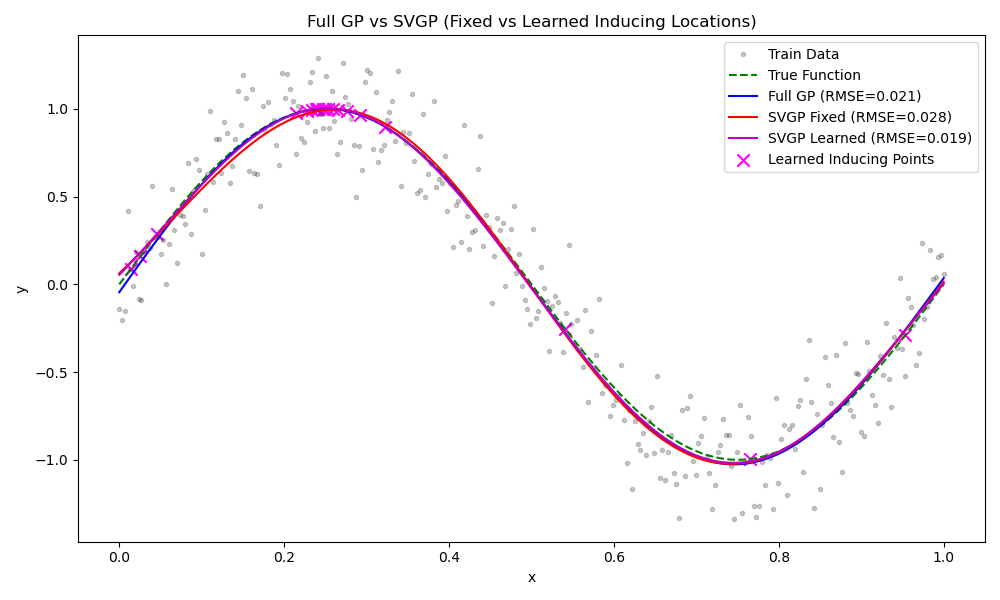
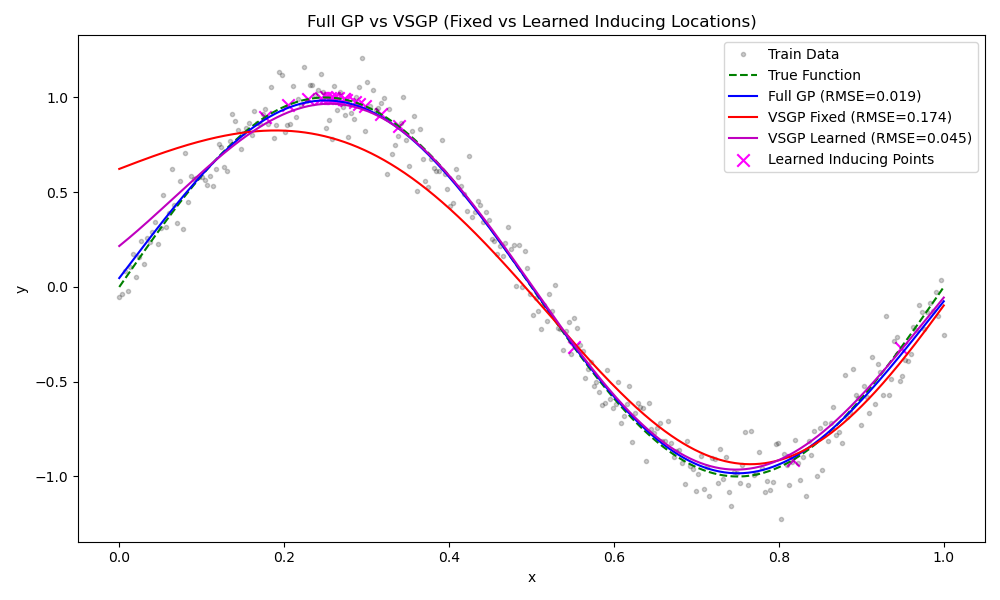
update simplest online VSGP

diff --git a/experiments/online_vsgp.py b/experiments/online_vsgp.py
@@ -6,21 +6,47 @@ import os
 from matplotlib import pyplot as plt
 from sklearn.metrics import mean_squared_error
 
-device = torch.device("cuda" if torch.cuda.is_available() else "cpu")
+# ==== Training and Model Parameters ====
+INITIAL_POINTS = 20
+STREAM_POINTS = 180
+TEST_POINTS = 500
+NOISE_LEVEL = 0.1
+FUNCTION_FREQUENCY = 2 * math.pi
+
+NUM_INDUCING = 20
+INITIAL_LENGTHSCALE = 1.0
+INITIAL_OUTPUTSCALE = 1.0
+INITIAL_NOISE = 0.1
+
+BATCH_SIZE = 10
+INITIAL_TRAIN_ITER = 100
+STREAM_TRAIN_ITER = 20
+LEARNING_RATE = 0.01
+
+# ==== Plotting Parameters ====
+FIGURE_SIZE = (10, 6)
+INDUCING_MARKER_SIZE = 80
+DATA_POINT_SIZE = 10
+CONFIDENCE_ALPHA = 0.3
+
+# ==== Device ====
+USE_GPU = True
+device = torch.device("cuda" if (USE_GPU and torch.cuda.is_available()) else "cpu")
+
+# ==== Results Directory ====
 results_dir = os.path.join(os.path.dirname(__file__), '..', 'results')
 os.makedirs(results_dir, exist_ok=True)
 
-# 1. Initial data and streaming data
-init_x = torch.linspace(0, 0.3, 20, device=device)
-init_y = torch.sin(2 * math.pi * init_x) + 0.2 * torch.randn(init_x.size(), device=device)
-stream_x = torch.linspace(0.3, 1, 180, device=device)
-stream_y = torch.sin(2 * math.pi * stream_x) + 0.2 * torch.randn(stream_x.size(), device=device)
+# ==== Data Generation ====
+init_x = torch.linspace(0, 0.3, INITIAL_POINTS, device=device)
+init_y = torch.sin(FUNCTION_FREQUENCY * init_x) + NOISE_LEVEL * torch.randn(init_x.size(), device=device)
+stream_x = torch.linspace(0.3, 1, STREAM_POINTS, device=device)
+stream_y = torch.sin(FUNCTION_FREQUENCY * stream_x) + NOISE_LEVEL * torch.randn(stream_x.size(), device=device)
 
-# Fixed test set for evaluation
-test_x = torch.linspace(0, 1, 500, device=device)
-test_y = torch.sin(2 * math.pi * test_x)
+test_x = torch.linspace(0, 1, TEST_POINTS, device=device)
+test_y = torch.sin(FUNCTION_FREQUENCY * test_x)
 
-# 2. SVGP Model definition
+# ==== SVGP Model Definition ====
 class SVGPRegressionModel(gpytorch.models.ApproximateGP):
     def __init__(self, inducing_points):
         variational_distribution = gpytorch.variational.CholeskyVariationalDistribution(inducing_points.size(0)).to(device)
@@ -38,20 +64,19 @@ class SVGPRegressionModel(gpytorch.models.ApproximateGP):
         covar_x = self.covar_module(x)
         return gpytorch.distributions.MultivariateNormal(mean_x, covar_x)
 
-# 3. Initialize model and likelihood
-num_inducing = 20
+# ==== Initialize model and likelihood ====
 inducing_points = init_x.unsqueeze(-1).clone()
 model = SVGPRegressionModel(inducing_points=inducing_points).to(device)
 likelihood = gpytorch.likelihoods.GaussianLikelihood().to(device)
 
-# 4. Training function
-def train_svgp(model, likelihood, x, y, num_iter=50):
+# ==== Training function ====
+def train_svgp(model, likelihood, x, y, num_iter):
     model.train()
     likelihood.train()
     optimizer = torch.optim.Adam([
         {'params': model.parameters()},
         {'params': likelihood.parameters()},
-    ], lr=0.01)
+    ], lr=LEARNING_RATE)
     mll = gpytorch.mlls.VariationalELBO(likelihood, model, num_data=y.size(0)).to(device)
     for _ in range(num_iter):
         optimizer.zero_grad()
@@ -60,8 +85,7 @@ def train_svgp(model, likelihood, x, y, num_iter=50):
         loss.backward()
         optimizer.step()
 
-# 5. Online update loop
-batch_size = 10
+# ==== Online update loop ====
 all_x = [init_x]
 all_y = [init_y]
 inducing_traj = [model.variational_strategy.inducing_points.detach().cpu().numpy().flatten().copy()]
@@ -71,7 +95,7 @@ outputscale_list = []
 noise_list = []
 
 # Initial training
-train_svgp(model, likelihood, init_x, init_y, num_iter=100)
+train_svgp(model, likelihood, init_x, init_y, num_iter=INITIAL_TRAIN_ITER)
 inducing_traj.append(model.variational_strategy.inducing_points.detach().cpu().numpy().flatten().copy())
 
 # Evaluate after initial training
@@ -82,24 +106,19 @@ with torch.no_grad(), gpytorch.settings.fast_pred_var():
     mean = pred.mean.cpu().numpy()
     rmse = np.sqrt(mean_squared_error(test_y.cpu().numpy(), mean))
     rmse_list.append(rmse)
-    # Record kernel hyperparameters
     lengthscale_list.append(model.covar_module.base_kernel.lengthscale.item())
     outputscale_list.append(model.covar_module.outputscale.item())
     noise_list.append(likelihood.noise.item())
 
-for i in range(0, len(stream_x), batch_size):
-    batch_x = stream_x[i:i+batch_size]
-    batch_y = stream_y[i:i+batch_size]
-    # Add new data
+for i in range(0, len(stream_x), BATCH_SIZE):
+    batch_x = stream_x[i:i+BATCH_SIZE]
+    batch_y = stream_y[i:i+BATCH_SIZE]
     all_x.append(batch_x)
     all_y.append(batch_y)
-    # Retrain on all data so far (for simplicity)
     x_so_far = torch.cat(all_x)
     y_so_far = torch.cat(all_y)
-    train_svgp(model, likelihood, x_so_far, y_so_far, num_iter=20)
-    # Record inducing points
+    train_svgp(model, likelihood, x_so_far, y_so_far, num_iter=STREAM_TRAIN_ITER)
     inducing_traj.append(model.variational_strategy.inducing_points.detach().cpu().numpy().flatten().copy())
-    # Evaluate and record RMSE and kernel hyperparameters
     model.eval()
     likelihood.eval()
     with torch.no_grad(), gpytorch.settings.fast_pred_var():
@@ -111,10 +130,10 @@ for i in range(0, len(stream_x), batch_size):
         outputscale_list.append(model.covar_module.outputscale.item())
         noise_list.append(likelihood.noise.item())
 
-# 6. Plot inducing point trajectories with RMSE tags
-inducing_traj = np.array(inducing_traj)  # shape: (steps, num_inducing)
+# ==== Plot inducing point trajectories with RMSE tags ====
+inducing_traj = np.array(inducing_traj)
 plt.figure(figsize=(12, 6))
-for i in range(num_inducing):
+for i in range(NUM_INDUCING):
     plt.plot(inducing_traj[:, i], color='magenta', alpha=0.7)
 for step, rmse in enumerate(rmse_list):
     plt.text(step, inducing_traj[step, 0], f"{rmse:.3f}", fontsize=8, color='blue', ha='center', va='bottom', rotation=45)
@@ -125,7 +144,7 @@ plt.tight_layout()
 plt.savefig(os.path.join(results_dir, 'online_svgp_inducing_trajectories.png'))
 plt.close()
 
-# 7. Plot kernel hyperparameters over time
+# ==== Plot kernel hyperparameters over time ====
 plt.figure(figsize=(10, 6))
 plt.plot(lengthscale_list, label='Lengthscale')
 plt.plot(outputscale_list, label='Outputscale')
@@ -138,7 +157,7 @@ plt.tight_layout()
 plt.savefig(os.path.join(results_dir, 'online_svgp_hyperparams.png'))
 plt.close()
 
-# 8. Plot RMSE over time
+# ==== Plot RMSE over time ====
 plt.figure(figsize=(8, 4))
 plt.plot(rmse_list, marker='o')
 plt.xlabel('Update Step')
@@ -148,7 +167,7 @@ plt.tight_layout()
 plt.savefig(os.path.join(results_dir, 'online_svgp_rmse_curve.png'))
 plt.close()
 
-# 9. Plot final model fit and inducing points
+# ==== Plot final model fit and inducing points ====
 model.eval()
 likelihood.eval()
 with torch.no_grad(), gpytorch.settings.fast_pred_var():
@@ -158,13 +177,13 @@ with torch.no_grad(), gpytorch.settings.fast_pred_var():
     lower = lower.cpu().numpy()
     upper = upper.cpu().numpy()
 
-plt.figure(figsize=(10, 6))
-plt.plot(test_x.cpu().numpy(), np.sin(2 * np.pi * test_x.cpu().numpy()), 'g--', label='True Function')
+plt.figure(figsize=FIGURE_SIZE)
+plt.plot(test_x.cpu().numpy(), np.sin(FUNCTION_FREQUENCY * test_x.cpu().numpy()), 'g--', label='True Function')
 plt.plot(test_x.cpu().numpy(), mean, 'b', label='SVGP Predictive Mean')
-plt.fill_between(test_x.cpu().numpy(), lower, upper, alpha=0.3, label='Confidence')
-plt.scatter(torch.cat(all_x).cpu().numpy(), torch.cat(all_y).cpu().numpy(), color='k', s=10, alpha=0.3, label='Data')
+plt.fill_between(test_x.cpu().numpy(), lower, upper, alpha=CONFIDENCE_ALPHA, label='Confidence')
+plt.scatter(torch.cat(all_x).cpu().numpy(), torch.cat(all_y).cpu().numpy(), color='k', s=DATA_POINT_SIZE, alpha=0.3, label='Data')
 final_inducing = model.variational_strategy.inducing_points.detach().cpu().numpy().flatten()
-plt.scatter(final_inducing, np.sin(2 * np.pi * final_inducing), marker='x', color='magenta', s=80, label='Final Inducing Points')
+plt.scatter(final_inducing, np.sin(FUNCTION_FREQUENCY * final_inducing), marker='x', color='magenta', s=INDUCING_MARKER_SIZE, label='Final Inducing Points')
 plt.legend()
 plt.title('Online SVGP: Final Fit and Inducing Points')
 plt.xlabel('x')

diff --git a/experiments/gp_vsgp_compare.py b/experiments/gp_vsgp_compare.py
@@ -1,0 +1,165 @@
+import torch
+import math
+import gpytorch
+import numpy as np
+import os
+from matplotlib import pyplot as plt
+from sklearn.metrics import mean_squared_error
+
+# ==== Training and Model Parameters (easy to modify) ====
+N = 300  # Number of training points
+TEST_POINTS = 1000  # Number of test points
+NOISE_LEVEL = 0.1
+FUNCTION_FREQUENCY = 2 * math.pi
+NUM_INDUCING = 20
+TRAIN_ITER = 100
+LEARNING_RATE = 0.02
+
+# ==== Plotting Parameters ====
+FIGURE_SIZE = (10, 6)
+INDUCING_MARKER_SIZE = 80
+DATA_POINT_SIZE = 10
+CONFIDENCE_ALPHA = 0.3
+
+# ==== Device ====
+device = torch.device("cuda" if torch.cuda.is_available() else "cpu")
+
+# ==== Results Directory ====
+results_dir = os.path.join(os.path.dirname(__file__), '..', f'results_{NUM_INDUCING}')
+os.makedirs(results_dir, exist_ok=True)
+
+# ==== Data Generation ====
+train_x = torch.linspace(0, 1, N, device=device)
+train_y = torch.sin(FUNCTION_FREQUENCY * train_x) + NOISE_LEVEL * torch.randn(train_x.size(), device=device)
+test_x = torch.linspace(0, 1, TEST_POINTS, device=device)
+test_y = torch.sin(FUNCTION_FREQUENCY * test_x)
+
+# --- Full GP Model ---
+class ExactGPModel(gpytorch.models.ExactGP):
+    def __init__(self, train_x, train_y, likelihood):
+        super().__init__(train_x, train_y, likelihood)
+        self.mean_module = gpytorch.means.ConstantMean()
+        self.covar_module = gpytorch.kernels.ScaleKernel(gpytorch.kernels.RBFKernel())
+
+    def forward(self, x):
+        mean_x = self.mean_module(x)
+        covar_x = self.covar_module(x)
+        return gpytorch.distributions.MultivariateNormal(mean_x, covar_x)
+
+# --- VSGP Model ---
+class VSGPRegressionModel(gpytorch.models.ApproximateGP):
+    def __init__(self, inducing_points, learn_inducing_locations=True):
+        variational_distribution = gpytorch.variational.CholeskyVariationalDistribution(inducing_points.size(0)).to(device)
+        variational_strategy = gpytorch.variational.VariationalStrategy(
+            self, inducing_points, variational_distribution, learn_inducing_locations=learn_inducing_locations
+        )
+        super().__init__(variational_strategy)
+        self.mean_module = gpytorch.means.ConstantMean().to(device)
+        self.covar_module = gpytorch.kernels.ScaleKernel(
+            gpytorch.kernels.RBFKernel().to(device)
+        ).to(device)
+
+    def forward(self, x):
+        mean_x = self.mean_module(x)
+        covar_x = self.covar_module(x)
+        return gpytorch.distributions.MultivariateNormal(mean_x, covar_x)
+
+# --- FITC Sparse GP Model ---
+class FITCRegressionModel(gpytorch.models.ApproximateGP):
+    def __init__(self, inducing_points, learn_inducing_locations=True):
+        variational_distribution = gpytorch.variational.DeltaVariationalDistribution(inducing_points.size(0)).to(device)
+        variational_strategy = gpytorch.variational.FITCVariationalStrategy(
+            self, inducing_points, variational_distribution, learn_inducing_locations=learn_inducing_locations
+        )
+        super().__init__(variational_strategy)
+        self.mean_module = gpytorch.means.ConstantMean().to(device)
+        self.covar_module = gpytorch.kernels.ScaleKernel(
+            gpytorch.kernels.RBFKernel().to(device)
+        ).to(device)
+
+    def forward(self, x):
+        mean_x = self.mean_module(x)
+        covar_x = self.covar_module(x)
+        return gpytorch.distributions.MultivariateNormal(mean_x, covar_x)
+
+def train_gp(model, likelihood, train_x, train_y, num_iter=TRAIN_ITER, is_vsgp=False):
+    model.train()
+    likelihood.train()
+    if is_vsgp:
+        optimizer = torch.optim.Adam([
+            {'params': model.parameters()},
+            {'params': likelihood.parameters()},
+        ], lr=LEARNING_RATE)
+        mll = gpytorch.mlls.VariationalELBO(likelihood, model, num_data=train_y.size(0)).to(device)
+    else:
+        optimizer = torch.optim.Adam(model.parameters(), lr=LEARNING_RATE)
+        mll = gpytorch.mlls.ExactMarginalLogLikelihood(likelihood, model).to(device)
+    for i in range(num_iter):
+        optimizer.zero_grad()
+        output = model(train_x.unsqueeze(-1) if is_vsgp else train_x)
+        loss = -mll(output, train_y)
+        loss.backward()
+        optimizer.step()
+    return model, likelihood
+
+def evaluate(model, likelihood, test_x, test_y, is_vsgp=False):
+    model.eval()
+    likelihood.eval()
+    with torch.no_grad(), gpytorch.settings.fast_pred_var():
+        pred = likelihood(model(test_x.unsqueeze(-1) if is_vsgp else test_x))
+        mean = pred.mean.cpu().numpy()
+        rmse = np.sqrt(mean_squared_error(test_y.cpu().numpy(), mean))
+    return mean, pred, rmse
+
+# --- Train and evaluate Full GP ---
+likelihood_full = gpytorch.likelihoods.GaussianLikelihood().to(device)
+model_full = ExactGPModel(train_x, train_y, likelihood_full).to(device)
+model_full, likelihood_full = train_gp(model_full, likelihood_full, train_x, train_y, num_iter=TRAIN_ITER, is_vsgp=False)
+mean_full, pred_full, rmse_full = evaluate(model_full, likelihood_full, test_x, test_y, is_vsgp=False)
+
+# --- Train and evaluate VSGP (fixed inducing locations) ---
+inducing_points = torch.linspace(0, 1, NUM_INDUCING, device=device).unsqueeze(-1)
+likelihood_vsgp_fixed = gpytorch.likelihoods.GaussianLikelihood().to(device)
+model_vsgp_fixed = VSGPRegressionModel(inducing_points, learn_inducing_locations=False).to(device)
+model_vsgp_fixed, likelihood_vsgp_fixed = train_gp(model_vsgp_fixed, likelihood_vsgp_fixed, train_x, train_y, num_iter=TRAIN_ITER, is_vsgp=True)
+mean_vsgp_fixed, pred_vsgp_fixed, rmse_vsgp_fixed = evaluate(model_vsgp_fixed, likelihood_vsgp_fixed, test_x, test_y, is_vsgp=True)
+
+# --- Train and evaluate VSGP (learned inducing locations) ---
+likelihood_vsgp_learn = gpytorch.likelihoods.GaussianLikelihood().to(device)
+model_vsgp_learn = VSGPRegressionModel(inducing_points.clone(), learn_inducing_locations=True).to(device)
+model_vsgp_learn, likelihood_vsgp_learn = train_gp(model_vsgp_learn, likelihood_vsgp_learn, train_x, train_y, num_iter=TRAIN_ITER, is_vsgp=True)
+mean_vsgp_learn, pred_vsgp_learn, rmse_vsgp_learn = evaluate(model_vsgp_learn, likelihood_vsgp_learn, test_x, test_y, is_vsgp=True)
+
+# --- Plotting: Function and predictions with learned inducing points marked ---
+plt.figure(figsize=FIGURE_SIZE)
+plt.plot(train_x.cpu().numpy(), train_y.cpu().numpy(), 'k.', alpha=0.2, label='Train Data')
+plt.plot(test_x.cpu().numpy(), test_y.cpu().numpy(), 'g--', label='True Function')
+plt.plot(test_x.cpu().numpy(), mean_full, 'b', label=f'Full GP (RMSE={rmse_full:.3f})')
+plt.plot(test_x.cpu().numpy(), mean_vsgp_fixed, 'r', label=f'VSGP Fixed (RMSE={rmse_vsgp_fixed:.3f})')
+plt.plot(test_x.cpu().numpy(), mean_vsgp_learn, 'm', label=f'VSGP Learned (RMSE={rmse_vsgp_learn:.3f})')
+
+# Mark learned inducing points on the function plot
+learned_inducing = model_vsgp_learn.variational_strategy.inducing_points.detach().cpu().numpy().flatten()
+plt.scatter(learned_inducing, np.sin(FUNCTION_FREQUENCY * learned_inducing), 
+            marker='x', color='magenta', s=INDUCING_MARKER_SIZE, label='Learned Inducing Points')
+
+plt.legend()
+plt.title('Full GP vs VSGP (Fixed vs Learned Inducing Locations)')
+plt.xlabel('x')
+plt.ylabel('y')
+plt.tight_layout()
+plt.savefig(os.path.join(results_dir, 'gp_comparison_with_inducing.png'))
+plt.close()
+
+# --- Show inducing points locations ---
+plt.figure(figsize=(8, 2))
+plt.scatter(inducing_points.cpu().numpy(), np.zeros_like(inducing_points.cpu().numpy()), label='Initial Inducing (Fixed)', color='red')
+plt.scatter(learned_inducing, np.ones_like(learned_inducing), label='Learned Inducing', color='magenta', marker='x')
+plt.yticks([0, 1], ['Fixed', 'Learned'])
+plt.title('Inducing Points Locations')
+plt.legend()
+plt.tight_layout()
+plt.savefig(os.path.join(results_dir, 'inducing_points.png'))
+plt.close()
+
+print(f"All done! Plots saved in '{results_dir}'.")
